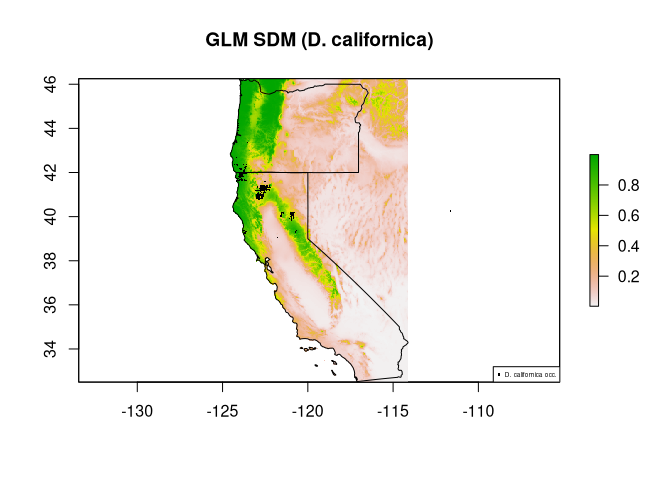
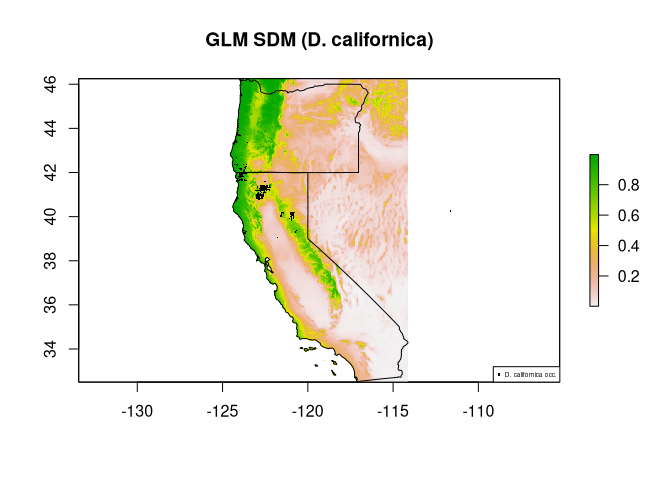
Update README

diff --git a/README.md b/README.md
@@ -167,14 +167,14 @@ SDM-ready dataframe of predictor values and species presence/(pseudo)absence
     ## MAT 
     ## 
     ## After excluding the collinear variables, the linear correlation coefficients ranges between: 
-    ## min correlation ( MAP ~ MTCQ ):  0.1811388 
-    ## max correlation ( MTCQ ~ MTWQ ):  0.6354272 
+    ## min correlation ( MAP ~ MTCQ ):  0.2219528 
+    ## max correlation ( MTCQ ~ MTWQ ):  0.5938187 
     ## 
     ## ---------- VIFs of the remained variables -------- 
     ##   Variables      VIF
-    ## 1      MTWQ 5.590315
-    ## 2      MTCQ 4.215618
-    ## 3       MAP 3.446200
+    ## 1      MTWQ 4.899459
+    ## 2      MTCQ 3.773858
+    ## 3       MAP 3.336157
 
     # It appears that when MAT is removed. There aren't significant collinearity 
     # problems among the predictors
@@ -207,9 +207,9 @@ model
 Linear model
 ------------
 
-*E*<sub>*Y*</sub> = *m**x* + *b* + *e*
+*E*<sub>*Y*</sub> = *m* \* *x* + *b* + *e*
 
-*E*<sub>*Y*</sub> is expected habitat suitability
+*E*<sub>*Y*</sub> = expected habitat suitability
 
 *b* = intercept
 
@@ -239,11 +239,11 @@ and we know that other climatic variables impact species distributions.
 Generalized Linear Model SDM
 ----------------------------
 
-*g*(*E*<sub>*Y*</sub>) = *L**P* = *m**x* + *b* + *e*
+*g*(*E*<sub>*Y*</sub>) = *L* = *m* \* *x* + *b* + *e*
 
 *g*() is link function
 
-*L**P* = Linear Predictor
+*L* = Linear Predictor
 
 GLMs Do not have to have: - normal distribution of error - homogenous
 variance Different link functions can be used, which each have their own
@@ -271,14 +271,14 @@ provide the *probability* of presence (arguably better interpreted as
 “habitat suitability”) as the response variable. This would give meaning
 to values between 1 and 0. We can do this with the logit link function.
 
-*g*(*E*<sub>*Y*</sub>) = *L**P* = *m**x* + *b* + *e*
+*g*(*E*<sub>*Y*</sub>) = *L* = *m* \* *x* + *b* + *e*
 
-*L**P* = *l**o**g*10(*E*<sub>*Y*</sub>/(1 − *E*<sub>*Y*</sub>))
+$L = log10(\\frac{E\_Y}{1 - E\_Y})$
 
 solve for *E*<sub>*Y*</sub>
 
 Expanded Logit GLM:
-*E*<sub>*Y*</sub> = *e*<sup>*m**x* + *b* + *e*</sup>/(1 + *e*<sup>*m**x* + *b* + *e*</sup>)
+*E*<sub>*Y*</sub> = *e*<sup>*m* \* *x* + *b* + *e*</sup>/(1 + *e*<sup>*m* \* *x* + *b* + *e*</sup>)
 
     sdm_glm <- glm(Y ~ MTWQ, data = sdmdata, family = binomial)
     # This is the expanded logit GLM equation, written as an R function
@@ -325,7 +325,7 @@ environment from raster files and using our GLM to predict the
 Notice how the raster legend shows values between -6 and 4. These aren’t
 probabilities! This happened because we’re plotting the logit
 transformed response variable
-*g*(*E*<sub>*Y*</sub>) = *m**x* + *b* + *e* where
+*g*(*E*<sub>*Y*</sub>) = *m* \* *x* + *b* + *e* where
 *g*(*E*<sub>*Y*</sub>) = *l**o**g*10(*E*<sub>*Y*</sub>/(1 − *E*<sub>*Y*</sub>))
 Solve for *E*<sub>*Y*</sub> to get the probability value between 0 and
 1:
@@ -482,15 +482,15 @@ getmethodNames() to see all possible methods
     ## ---------------------------------------------- 
     ## Based on Correlation metric: 
     ## ---------------------------------------------- 
-    ## MTWQ                : ***** (10.8 %) 
-    ## MTCQ                :  (0.8 %) 
-    ## MAP                 : *************************************** (77.3 %) 
+    ## MTWQ                : ********************** (44 %) 
+    ## MTCQ                : ***** (9.6 %) 
+    ## MAP                 : ****************** (36.7 %) 
     ## ============================================================= 
     ## Based on AUC metric: 
     ## ---------------------------------------------- 
-    ## MTWQ                : **** (7.9 %) 
-    ## MTCQ                :  (0.9 %) 
-    ## MAP                 : ****************************** (60.2 %) 
+    ## MTWQ                : ***************** (34.6 %) 
+    ## MTCQ                : **** (8.1 %) 
+    ## MAP                 : ************** (27.7 %) 
     ## =============================================================
 
     # Let's try GAM, a regression method
@@ -516,15 +516,15 @@ getmethodNames() to see all possible methods
     ## ---------------------------------------------- 
     ## Based on Correlation metric: 
     ## ---------------------------------------------- 
-    ## MTWQ                : ******* (14.8 %) 
-    ## MTCQ                : **************** (31 %) 
-    ## MAP                 : *************************** (54.2 %) 
+    ## MTWQ                : ************ (24.1 %) 
+    ## MTCQ                : ****************** (35.8 %) 
+    ## MAP                 : ****************************** (59.7 %) 
     ## ============================================================= 
     ## Based on AUC metric: 
     ## ---------------------------------------------- 
-    ## MTWQ                : **** (8.7 %) 
-    ## MTCQ                : ************* (25.7 %) 
-    ## MAP                 : *********************** (45.5 %) 
+    ## MTWQ                : ******** (15.3 %) 
+    ## MTCQ                : ************** (27.1 %) 
+    ## MAP                 : ******************************** (64.5 %) 
     ## =============================================================
 
     # Let's try Random Forest, which is a machine learning method
@@ -550,15 +550,15 @@ getmethodNames() to see all possible methods
     ## ---------------------------------------------- 
     ## Based on Correlation metric: 
     ## ---------------------------------------------- 
-    ## MTWQ                : ********* (18 %) 
-    ## MTCQ                : ********** (19.1 %) 
-    ## MAP                 : **************************** (55.1 %) 
+    ## MTWQ                : *********** (21.1 %) 
+    ## MTCQ                : ********** (19.4 %) 
+    ## MAP                 : *************************** (53.3 %) 
     ## ============================================================= 
     ## Based on AUC metric: 
     ## ---------------------------------------------- 
-    ## MTWQ                : ***** (9.8 %) 
-    ## MTCQ                : ****** (11.5 %) 
-    ## MAP                 : ************************ (48.8 %) 
+    ## MTWQ                : ****** (11.8 %) 
+    ## MTCQ                : ***** (10.7 %) 
+    ## MAP                 : *********************** (46.5 %) 
     ## =============================================================
 
     # ENSEMBLE let's make an ensemble model of all of them
@@ -587,15 +587,15 @@ getmethodNames() to see all possible methods
     ## ---------------------------------------------- 
     ## Based on Correlation metric: 
     ## ---------------------------------------------- 
-    ## MTWQ                : ****[**-] (14.4 %) 
-    ## MTCQ                [********--------] (16.9 %) 
-    ## MAP                 : ***********************[*******-------] (62.8 %) 
+    ## MTWQ                : *******[*******------] (29.6 %) 
+    ## MTCQ                : **[********------] (21.6 %) 
+    ## MAP                 : *****************[******-----] (48.5 %) 
     ## ============================================================= 
     ## Based on AUC metric: 
     ## ---------------------------------------------- 
-    ## MTWQ                : ***[] (8.4 %) 
-    ## MTCQ               [: ******-------] (12.7 %) 
-    ## MAP                 : *********************[****---] (51.9 %) 
+    ## MTWQ                : **[*******------] (20 %) 
+    ## MTCQ                : [*******-----] (15.1 %) 
+    ## MAP                 : ************[*********---------] (44.6 %) 
     ## =============================================================
 
 Model Evaluation methodologies coming soon!
